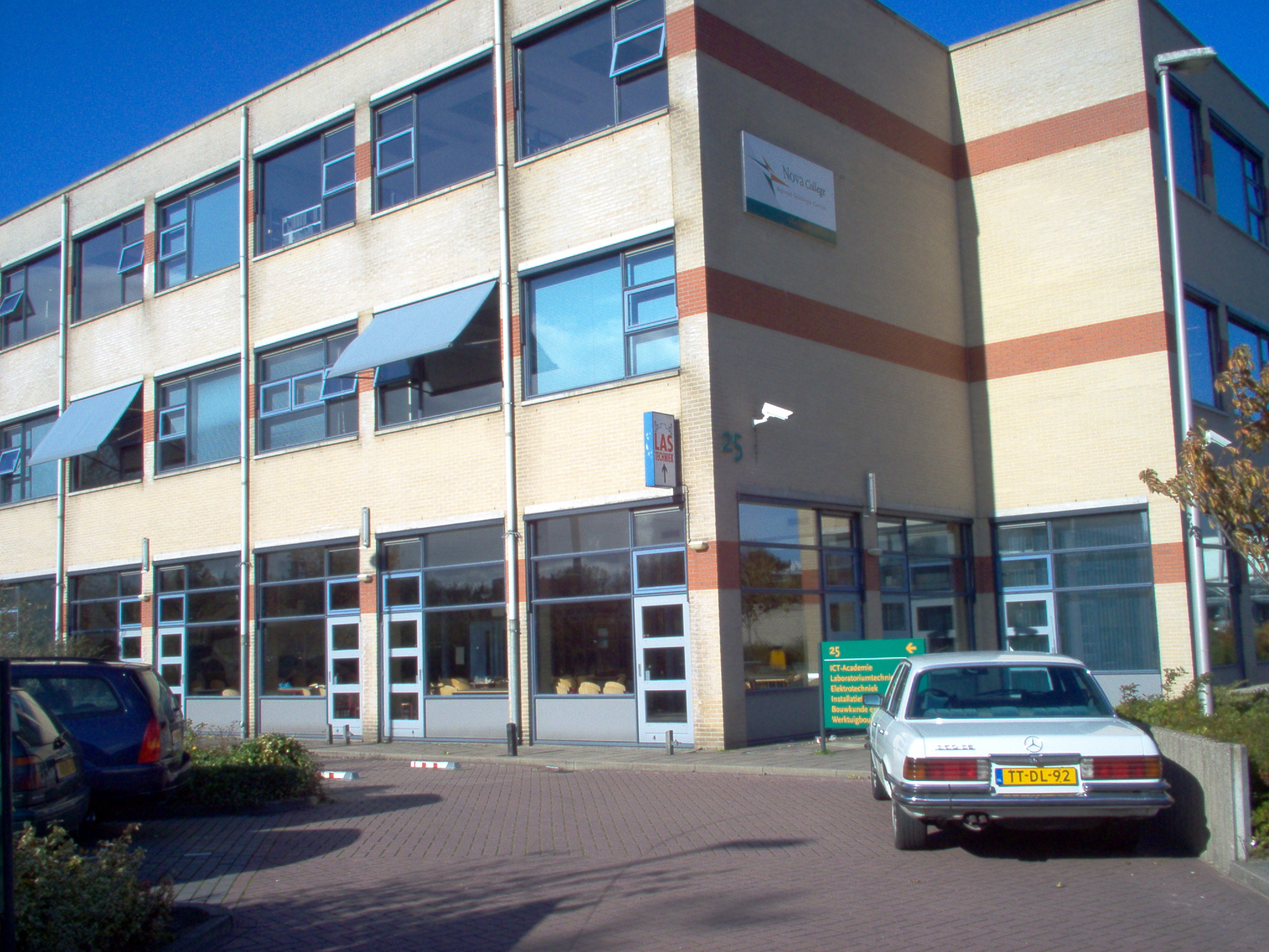
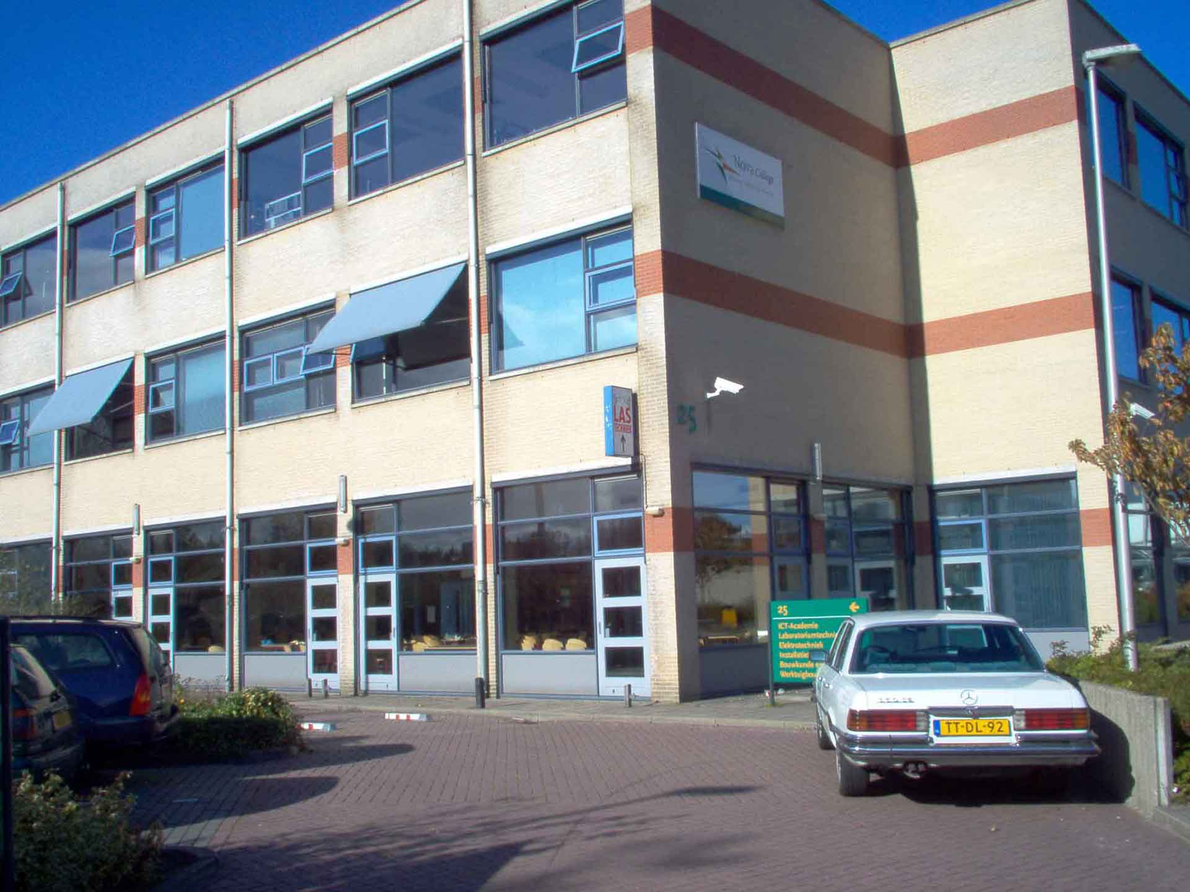
Added a footer plus changed the pictures to reasonable size

diff --git a/Portfolio/style.css b/Portfolio/style.css
@@ -1,3 +1,3 @@
 .parallax-container{
-    height: 300px;
+    height: 350px;
 }

diff --git a/Portfolio/index.php b/Portfolio/index.php
@@ -44,8 +44,18 @@
     </div>
 </div>
 <div class=" parallax-container">
-    <div class="parallax"><img src="images/beverwijk1jpg.jpg"></div>
+    <div class="parallax"><img src="images/beverwijk1.jpg"></div>
 </div>
+<footer class="page-footer teal lighter-1">
+    <div class="container">
+        <div class="row">
+            <div class="col s6">
+                <h5 class="white-text">Test text</h5>
+                <p class="white-text">even more text</p>
+            </div>
+        </div>
+    </div>
+</footer>
 <script type="text/javascript" src="https://code.jquery.com/jquery-2.1.1.min.js"></script>
 <script type="text/javascript"
         src="https://cdnjs.cloudflare.com/ajax/libs/materialize/0.98.0/js/materialize.min.js"></script>
